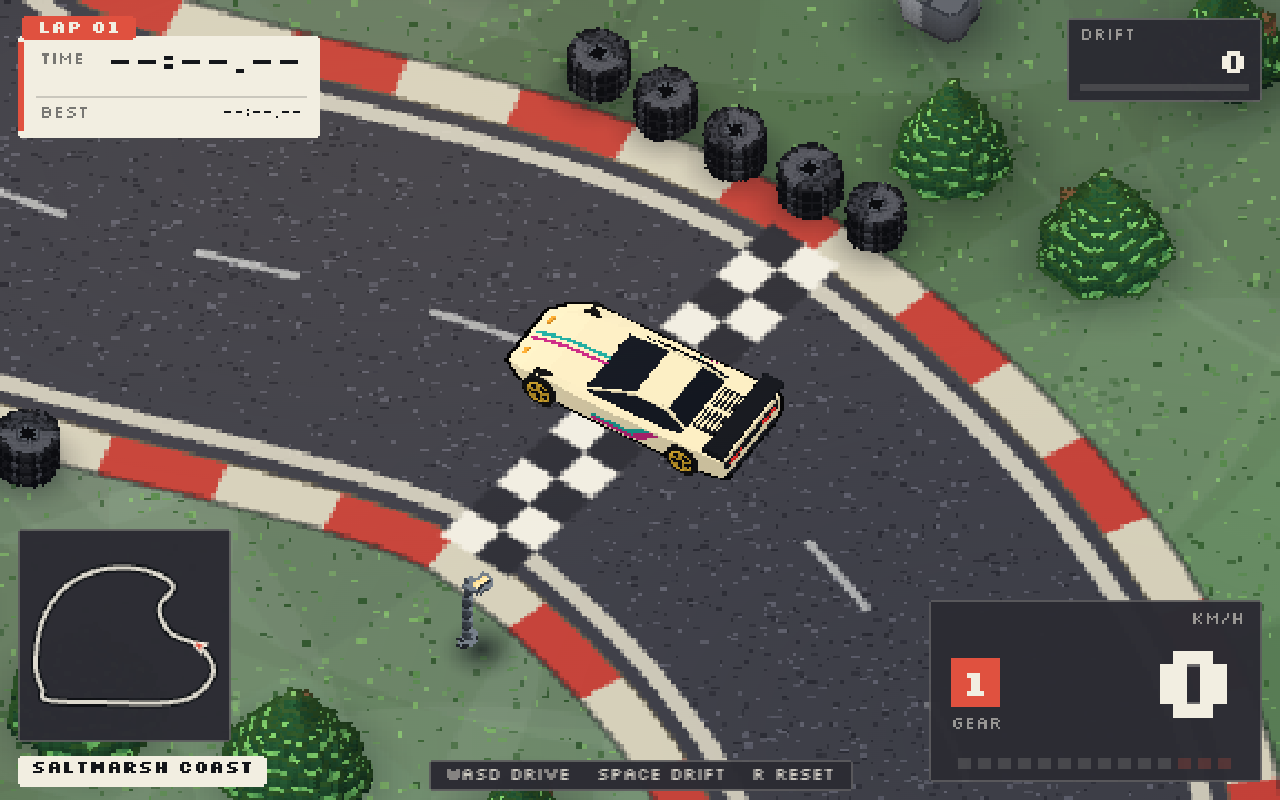
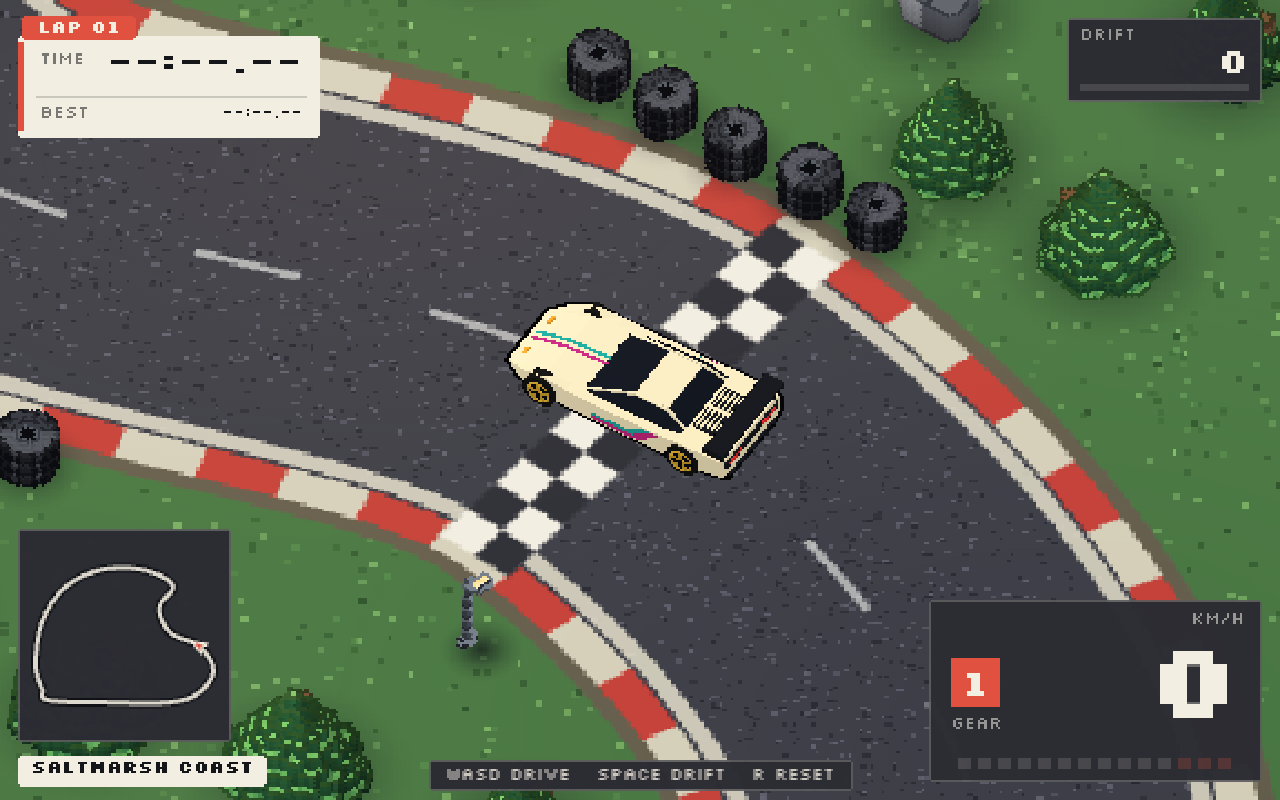
Calmer ground (no soft blobs, coarse grain), thinner kerbs that stop folding at tight corners

diff --git a/src/world.ts b/src/world.ts
@@ -203,27 +203,19 @@ function paintGround(track: P2[], map: MapDef): HTMLCanvasElement {
   g.fillStyle = map.palette.grass;
   g.fillRect(0, 0, PX, PX);
 
-  // very soft broad variation, kept faint
-  for (let i = 0; i < 260; i++) {
-    const x = rnd() * PX, y = rnd() * PX, r = 90 + rnd() * 260;
-    g.fillStyle = rnd() > 0.5 ? 'rgba(255,255,255,0.05)' : 'rgba(0,0,0,0.06)';
-    g.beginPath();
-    g.arc(x, y, r, 0, Math.PI * 2);
-    g.fill();
-  }
 
   // dense pixel grain: 1–2 texel specks in four grass tones
   const tones = map.palette.tones;
-  for (let i = 0; i < 96000; i++) {
+  for (let i = 0; i < 42000; i++) {
     const x = (rnd() * PX) | 0, y = (rnd() * PX) | 0;
     g.fillStyle = tones[(rnd() * tones.length) | 0];
     g.globalAlpha = 0.55 + rnd() * 0.45;
-    g.fillRect(x, y, rnd() > 0.55 ? 2 : 1, rnd() > 0.55 ? 2 : 1);
+    g.fillRect(x, y, 2, 2);
   }
   g.globalAlpha = 1;
 
   // blades: short vertical light specks
-  for (let i = 0; i < 7000; i++) {
+  for (let i = 0; i < 3000; i++) {
     const x = (rnd() * PX) | 0, y = (rnd() * PX) | 0;
     g.fillStyle = rnd() > 0.6 ? map.palette.bladeA : map.palette.bladeB;
     g.globalAlpha = 0.6 + rnd() * 0.4;
@@ -288,10 +280,10 @@ function paintGround(track: P2[], map: MapDef): HTMLCanvasElement {
 
   // red/white kerbs
   for (const side of [1, -1]) {
-    const edge = offsetPath(track, side * (ROAD_HALF + 0.5));
-    strokePath(g, edge, map.palette.kerbA, 0.9 * PPU);
-    dotted(g, edge, map.palette.kerbB, 0.9 * PPU, 2.1 * PPU, 2.1 * PPU);
-    strokePath(g, offsetPath(track, side * (ROAD_HALF + 0.95)), 'rgba(30,30,36,0.45)', 0.12 * PPU);
+    const edge = offsetPath(track, side * (ROAD_HALF + 0.15));
+    strokePath(g, edge, map.palette.kerbA, 0.7 * PPU);
+    dotted(g, edge, map.palette.kerbB, 0.7 * PPU, 1.5 * PPU, 1.5 * PPU);
+
   }
 
   // centre dashes
